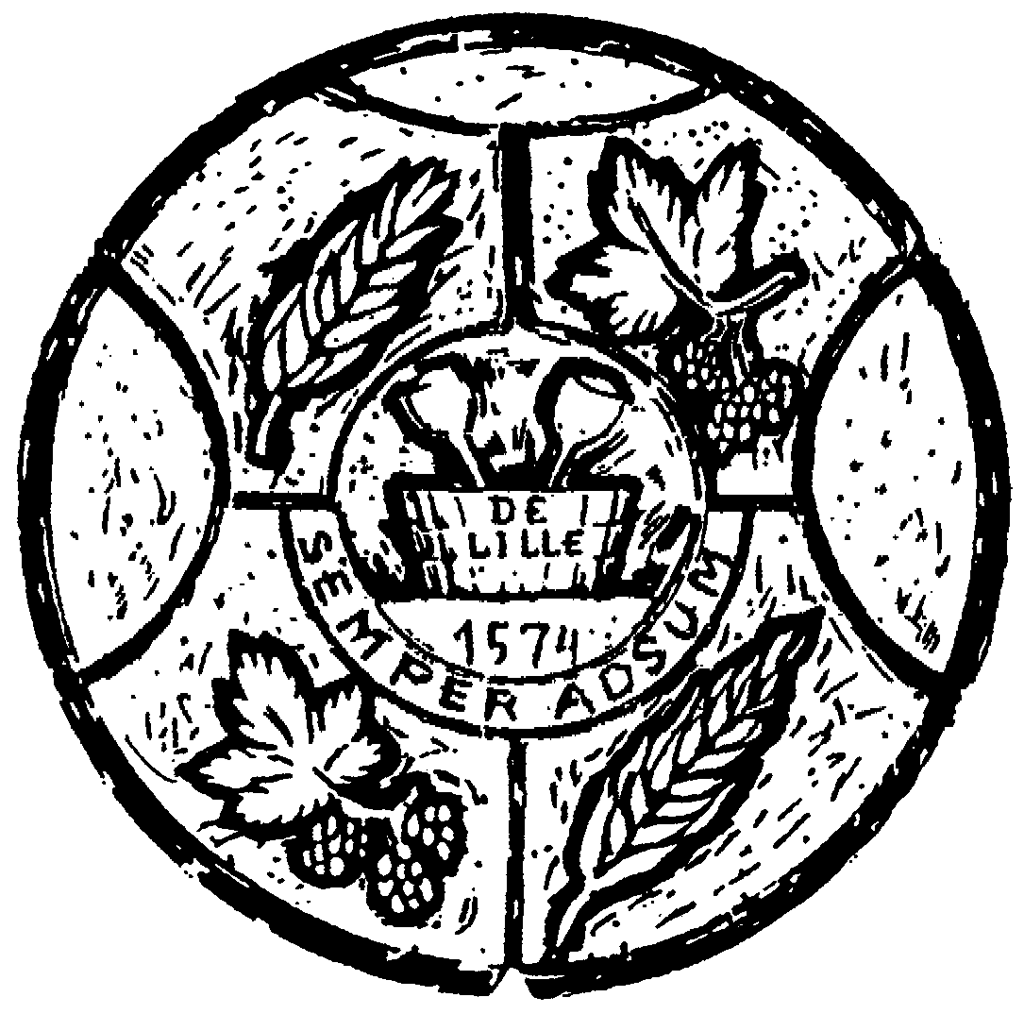
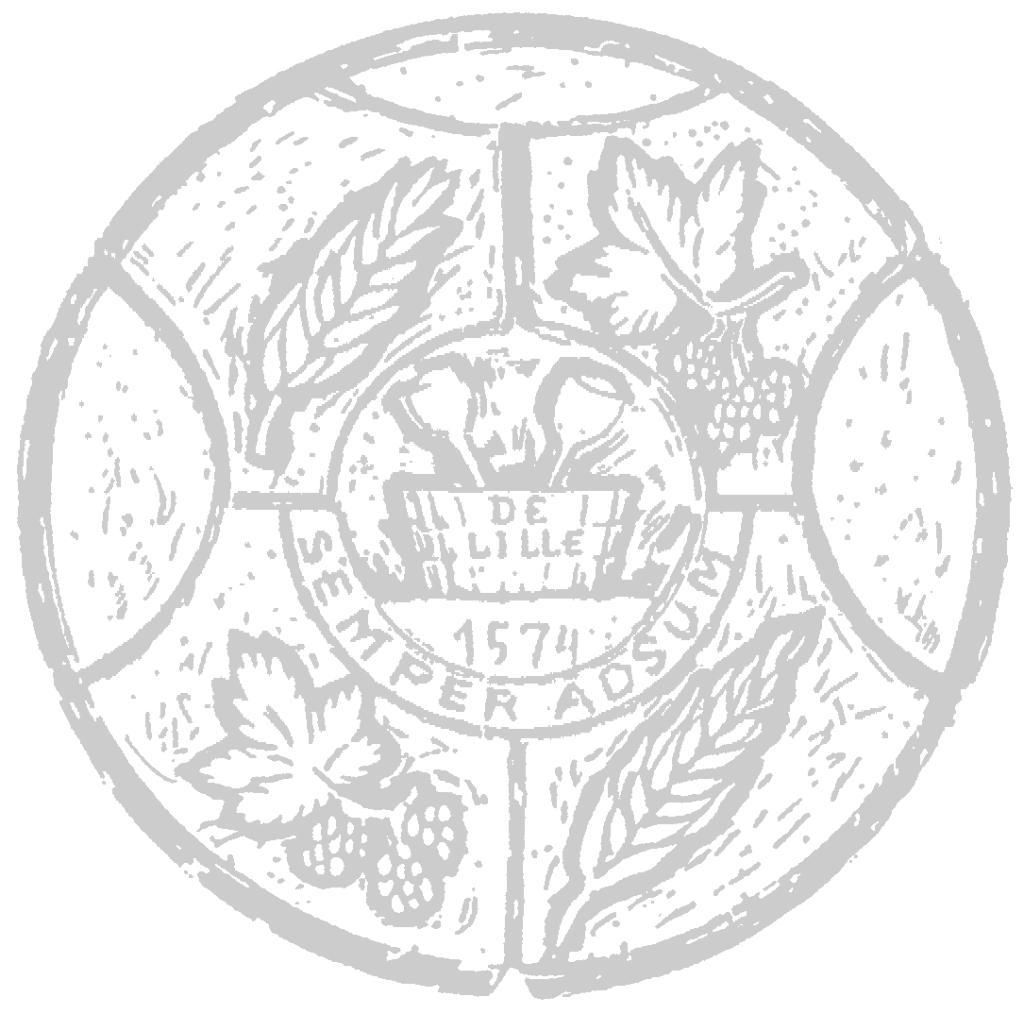
14.02

diff --git a/index2.html b/index2.html
@@ -70,8 +70,6 @@
 		<h3><a href="#">shipping</a></h3>	
 	</div>
 </section>
-<img src="img/crest.png" alt class="backgr_img_left"/>
-<img src="img/crest.png" alt class="backgr_img_right"/>
 <div class="wine">
 	<div class="inwine">
 	<div class="wine_one">
@@ -155,11 +153,11 @@
 		</div>
 		<div class="fot_th">
 		<h5 class="about">Keep up with us Online</h5>
-			<a href="https://www.facebook.com"><img id="fc" src="img/facebook.png" alt="facebook"/></a>
+			<a href="https://www.facebook.com"><img src="img/facebook.png" alt="facebook"/></a>
 
-			<a href="https://www.twitter.com"><img id="tw" src="img/twitter.png" alt="twitter"/></a>
+			<a href="https://www.twitter.com"><img src="img/twitter.png" alt="twitter"/></a>
 		
-			<a href="https://www.pinterest"><img id="pn" src="img/pin.png" alt="facebook"/></a>
+			<a href="https://www.pinterest"><img src="img/pin.png" alt="facebook"/></a>
 
 		</div>
 </div>

diff --git a/style2.css b/style2.css
@@ -1,7 +1,8 @@
 body {
-	background-image: url('img/backgr.jpg');
-    background-size: 100%;
+	background-image: url('img/crest.png'), url('img/crest.png'), url('img/backgr.jpg');
+    background-repeat: no-repeat, no-repeat, repeat;
 	margin: 0 auto;
+	background-position: top 244px left -312px, bottom 0 right -295px;
 	overflow-x: hidden;
 }
 header {
@@ -306,6 +307,7 @@ footer {
 	color: #fff;
 	background-color: #2d2d2d;
 	width: 1200px;
+	margin: 0 auto;
 }
 .info_centr {
 	width: 960px;
@@ -369,19 +371,6 @@ h5 {
 .fot_th img {
 	width: 50px;
 	height: 50px;
-}
-#fc {
-	position: absolute;
-	left: 74%;
-	top: 43%;
-}   
-#tw {
-    position: absolute;
-    left: 81%;
-    top: 43%;
-}
-#pn { 
-	position: absolute;
-	left: 88%;
-	top: 43%;
+	margin-right: 15px;
+	margin-top: -17px;
 }
